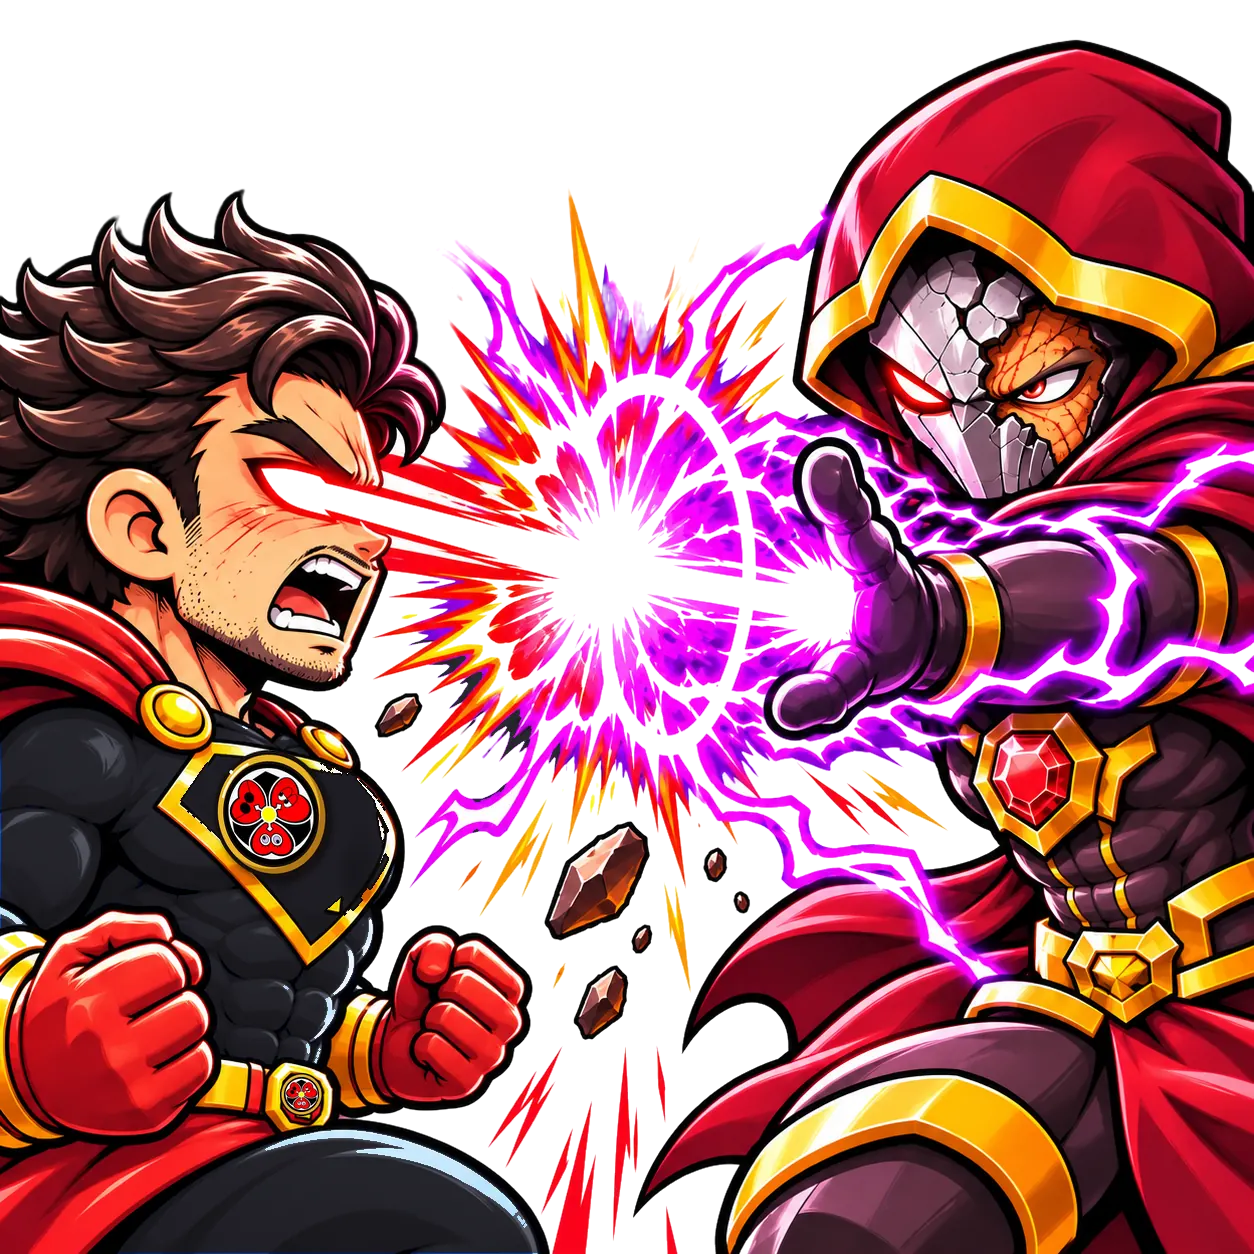
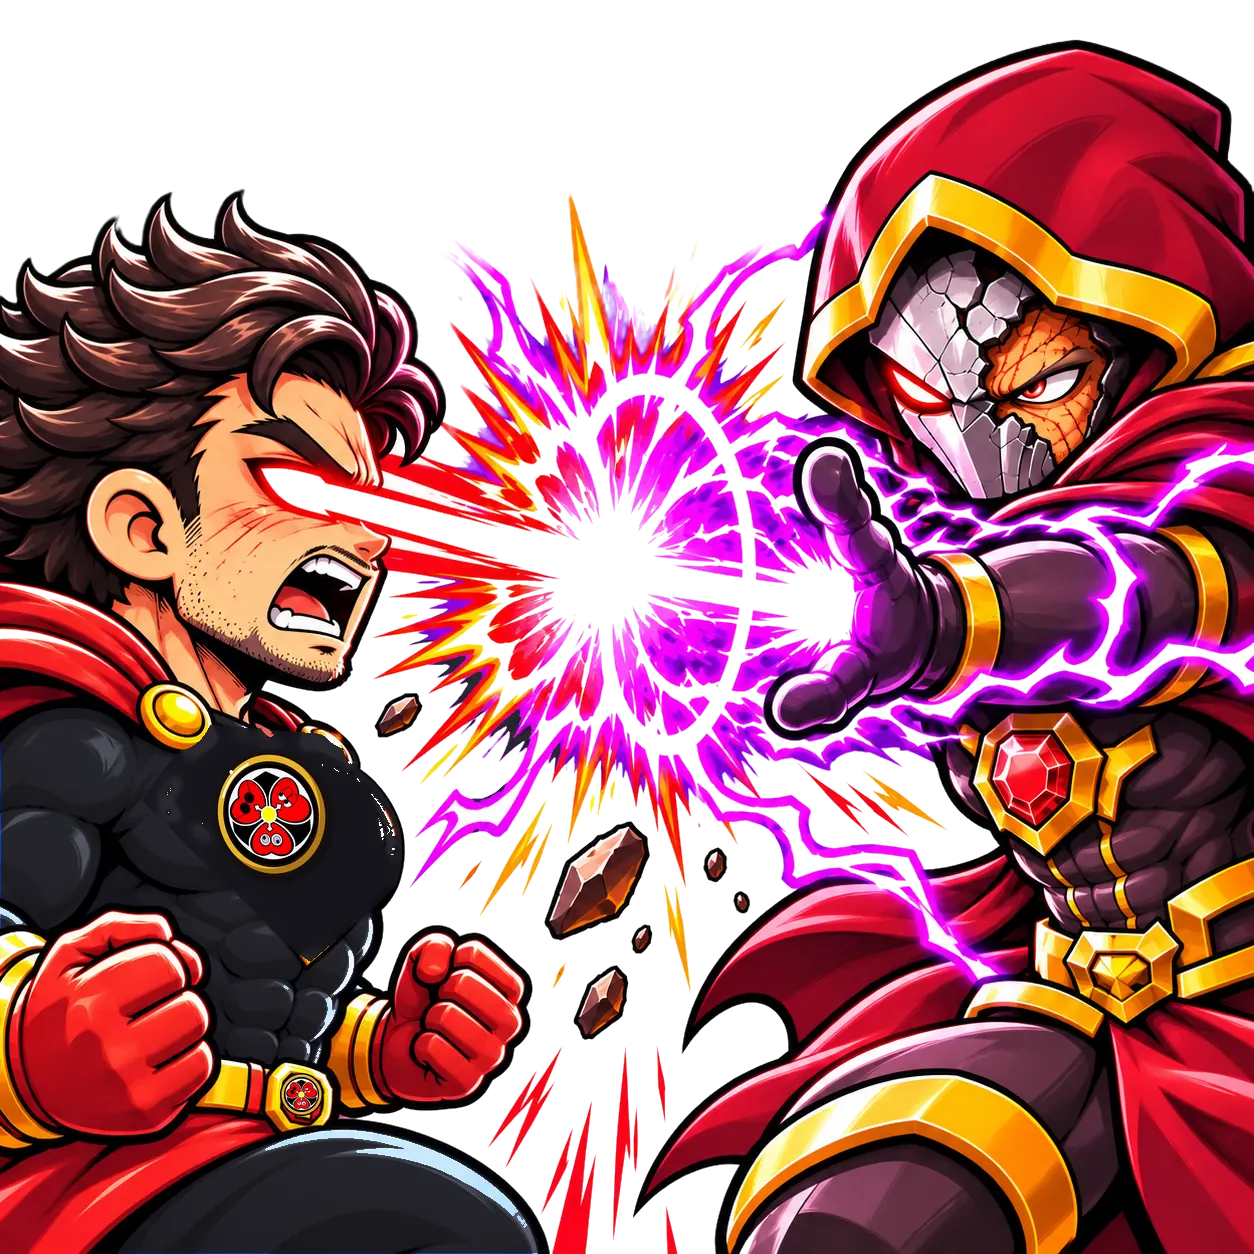
胸の金縁を削除、リンク共有時のプレビュー画像を新しくする
Claude-Session: https://claude.ai/code/session_01P13hFbXEhDS5pok4XEjrJv

diff --git a/th/index.html b/th/index.html
@@ -7,7 +7,7 @@
 <meta name="description" content="YSY General Services ที่นากาโนะ โตเกียว: ทำเว็บไซต์ ใบปลิว งานออกแบบ โซเชียลมีเดีย เอกสาร และงานสนับสนุนธุรกิจ ปรึกษาฟรี">
 <meta property="og:title" content="YSY General Services | รับทำเว็บไซต์ ออกแบบ โซเชียลมีเดีย และงานสนับสนุนธุรกิจ ที่โตเกียว">
 <meta property="og:description" content="YSY General Services ที่นากาโนะ โตเกียว: ทำเว็บไซต์ ใบปลิว งานออกแบบ โซเชียลมีเดีย เอกสาร และงานสนับสนุนธุรกิจ ปรึกษาฟรี">
-<meta property="og:image" content="https://ysy-service.com/img/og.jpg">
+<meta property="og:image" content="https://ysy-service.com/img/og-ysy.jpg">
 <meta property="og:type" content="website">
 <link rel="preconnect" href="https://fonts.googleapis.com">
 <link rel="stylesheet" href="https://fonts.googleapis.com/css2?family=Bangers&family=Dela+Gothic+One&family=Noto+Sans+JP:wght@500;700;900&family=Noto+Sans+Thai:wght@400;600;700&family=Kanit:wght@600;800&display=swap">
@@ -810,7 +810,7 @@ footer .wrap{display:flex;justify-content:space-between;flex-wrap:wrap;gap:10px}
 <link rel="alternate" hreflang="x-default" href="https://ysy-service.com/">
 <link rel="canonical" href="https://ysy-service.com/th/">
 <meta property="og:url" content="https://ysy-service.com/th/">
-<script type="application/ld+json">{"@context": "https://schema.org", "@type": "Organization", "name": "YSY総合サービス", "alternateName": ["YSY General Services", "YSY"], "url": "https://ysy-service.com/", "logo": "https://ysy-service.com/img/logo.webp", "image": "https://ysy-service.com/img/og.jpg", "email": "suraya3156_0430@yahoo.co.jp", "address": {"@type": "PostalAddress", "addressLocality": "中野区", "addressRegion": "東京都", "addressCountry": "JP"}, "sameAs": ["https://www.instagram.com/ysy_general_services_22/", "https://line.me/ti/p/f6-3QcYeBv"]}</script>
+<script type="application/ld+json">{"@context": "https://schema.org", "@type": "Organization", "name": "YSY総合サービス", "alternateName": ["YSY General Services", "YSY"], "url": "https://ysy-service.com/", "logo": "https://ysy-service.com/img/logo.webp", "image": "https://ysy-service.com/img/og-ysy.jpg", "email": "suraya3156_0430@yahoo.co.jp", "address": {"@type": "PostalAddress", "addressLocality": "中野区", "addressRegion": "東京都", "addressCountry": "JP"}, "sameAs": ["https://www.instagram.com/ysy_general_services_22/", "https://line.me/ti/p/f6-3QcYeBv"]}</script>
 <script>window.__INIT_LANG="th";window.__LANG_URLS={"ja": "../", "en": "../en/", "th": "./"};</script>
 </head>
 <body>

diff --git a/index.html b/index.html
@@ -7,7 +7,7 @@
 <meta name="description" content="東京都中野区のYSY総合サービス。ホームページ制作・チラシ・デザイン・SNS運用・資料制作・業務サポートまで、小さな「困った」にまとめて出動します。">
 <meta property="og:title" content="YSY総合サービス｜ホームページ制作・デザイン・SNS運用・業務サポート（東京・中野）">
 <meta property="og:description" content="東京都中野区のYSY総合サービス。ホームページ制作・チラシ・デザイン・SNS運用・資料制作・業務サポートまで、小さな「困った」にまとめて出動します。">
-<meta property="og:image" content="https://ysy-service.com/img/og.jpg">
+<meta property="og:image" content="https://ysy-service.com/img/og-ysy.jpg">
 <meta property="og:type" content="website">
 <link rel="preconnect" href="https://fonts.googleapis.com">
 <link rel="stylesheet" href="https://fonts.googleapis.com/css2?family=Bangers&family=Dela+Gothic+One&family=Noto+Sans+JP:wght@500;700;900&family=Noto+Sans+Thai:wght@400;600;700&family=Kanit:wght@600;800&display=swap">
@@ -810,7 +810,7 @@ footer .wrap{display:flex;justify-content:space-between;flex-wrap:wrap;gap:10px}
 <link rel="alternate" hreflang="x-default" href="https://ysy-service.com/">
 <link rel="canonical" href="https://ysy-service.com/">
 <meta property="og:url" content="https://ysy-service.com/">
-<script type="application/ld+json">{"@context": "https://schema.org", "@type": "Organization", "name": "YSY総合サービス", "alternateName": ["YSY General Services", "YSY"], "url": "https://ysy-service.com/", "logo": "https://ysy-service.com/img/logo.webp", "image": "https://ysy-service.com/img/og.jpg", "email": "suraya3156_0430@yahoo.co.jp", "address": {"@type": "PostalAddress", "addressLocality": "中野区", "addressRegion": "東京都", "addressCountry": "JP"}, "sameAs": ["https://www.instagram.com/ysy_general_services_22/", "https://line.me/ti/p/f6-3QcYeBv"]}</script>
+<script type="application/ld+json">{"@context": "https://schema.org", "@type": "Organization", "name": "YSY総合サービス", "alternateName": ["YSY General Services", "YSY"], "url": "https://ysy-service.com/", "logo": "https://ysy-service.com/img/logo.webp", "image": "https://ysy-service.com/img/og-ysy.jpg", "email": "suraya3156_0430@yahoo.co.jp", "address": {"@type": "PostalAddress", "addressLocality": "中野区", "addressRegion": "東京都", "addressCountry": "JP"}, "sameAs": ["https://www.instagram.com/ysy_general_services_22/", "https://line.me/ti/p/f6-3QcYeBv"]}</script>
 <script>window.__INIT_LANG="ja";window.__LANG_URLS={"ja": "./", "en": "en/", "th": "th/"};</script>
 </head>
 <body>

diff --git a/en/index.html b/en/index.html
@@ -7,7 +7,7 @@
 <meta name="description" content="YSY General Services in Nakano, Tokyo: websites, flyers, design, social media, documents and business support. Free consultation.">
 <meta property="og:title" content="YSY General Services | Web design, flyers, social media &amp; business support in Nakano, Tokyo">
 <meta property="og:description" content="YSY General Services in Nakano, Tokyo: websites, flyers, design, social media, documents and business support. Free consultation.">
-<meta property="og:image" content="https://ysy-service.com/img/og.jpg">
+<meta property="og:image" content="https://ysy-service.com/img/og-ysy.jpg">
 <meta property="og:type" content="website">
 <link rel="preconnect" href="https://fonts.googleapis.com">
 <link rel="stylesheet" href="https://fonts.googleapis.com/css2?family=Bangers&family=Dela+Gothic+One&family=Noto+Sans+JP:wght@500;700;900&family=Noto+Sans+Thai:wght@400;600;700&family=Kanit:wght@600;800&display=swap">
@@ -810,7 +810,7 @@ footer .wrap{display:flex;justify-content:space-between;flex-wrap:wrap;gap:10px}
 <link rel="alternate" hreflang="x-default" href="https://ysy-service.com/">
 <link rel="canonical" href="https://ysy-service.com/en/">
 <meta property="og:url" content="https://ysy-service.com/en/">
-<script type="application/ld+json">{"@context": "https://schema.org", "@type": "Organization", "name": "YSY総合サービス", "alternateName": ["YSY General Services", "YSY"], "url": "https://ysy-service.com/", "logo": "https://ysy-service.com/img/logo.webp", "image": "https://ysy-service.com/img/og.jpg", "email": "suraya3156_0430@yahoo.co.jp", "address": {"@type": "PostalAddress", "addressLocality": "中野区", "addressRegion": "東京都", "addressCountry": "JP"}, "sameAs": ["https://www.instagram.com/ysy_general_services_22/", "https://line.me/ti/p/f6-3QcYeBv"]}</script>
+<script type="application/ld+json">{"@context": "https://schema.org", "@type": "Organization", "name": "YSY総合サービス", "alternateName": ["YSY General Services", "YSY"], "url": "https://ysy-service.com/", "logo": "https://ysy-service.com/img/logo.webp", "image": "https://ysy-service.com/img/og-ysy.jpg", "email": "suraya3156_0430@yahoo.co.jp", "address": {"@type": "PostalAddress", "addressLocality": "中野区", "addressRegion": "東京都", "addressCountry": "JP"}, "sameAs": ["https://www.instagram.com/ysy_general_services_22/", "https://line.me/ti/p/f6-3QcYeBv"]}</script>
 <script>window.__INIT_LANG="en";window.__LANG_URLS={"ja": "../", "en": "./", "th": "../th/"};</script>
 </head>
 <body>
